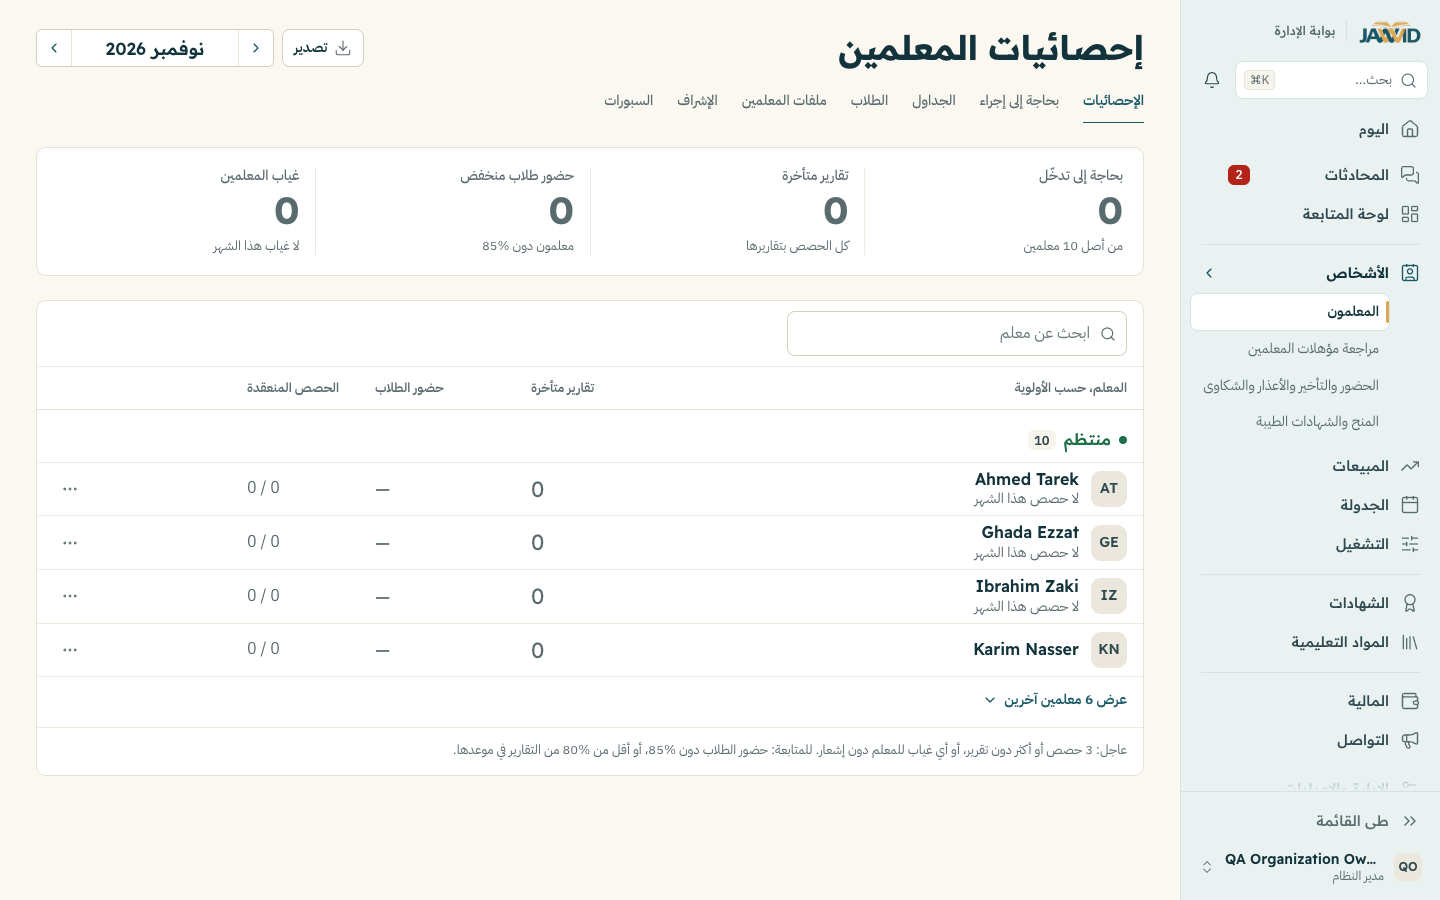
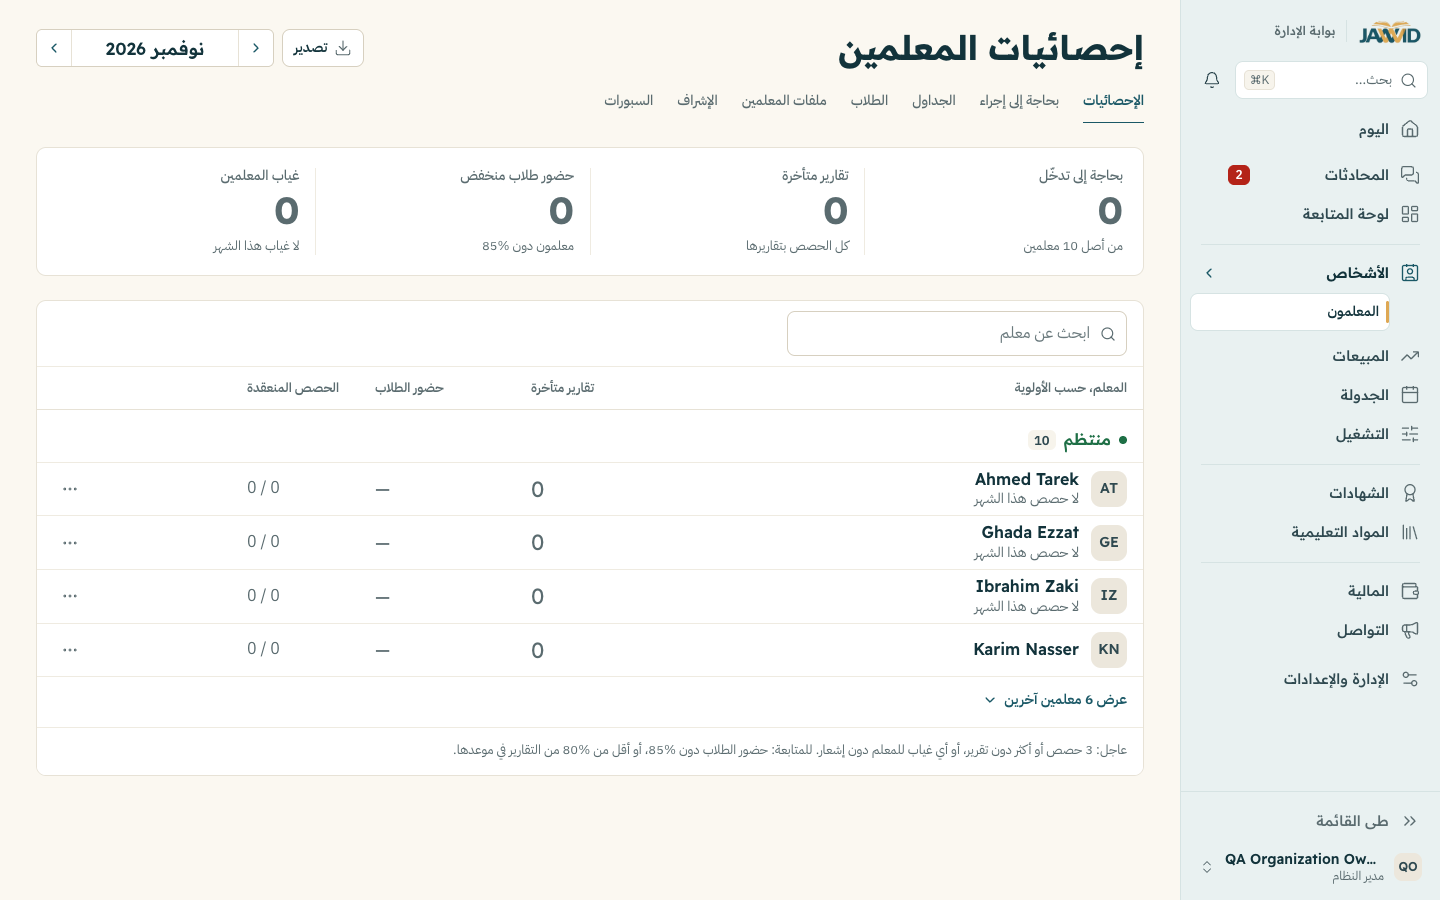
docs(design): rail critic round 3 and final both-state screenshots

Changed region(s): [[0.8438, 0.3733, 1.0, 0.6222], [0.9062, 0.7467, 1.0, 0.84], [0.9062, 0.6533, 1.0, 0.7156]]

diff --git a/docs/design/admin-decisions.md b/docs/design/admin-decisions.md
@@ -98,6 +98,18 @@ This replaces the earlier "labelled navigation" instruction.
   - The 1280px content cap. A folded rail at 1440 centres the content, so the side margin reads 50px instead of 36px. The content flows; it does not jump.
   - "Dashboard" under Dashboard. That place has two pages, Dashboard and Tasks.
 
+### Rail critic round 3 (2026-11-27)
+- **Verified.** All six round-2 fixes hold: places stay in view at 900px; Instalments and the ledger hold with the rail folded at 1024; all seven days show; queue names are cut at their end; long page names end in an ellipsis.
+- **Fixed in this round:**
+  - Row lists let a tag wrap inside its cell. Teacher files' status ran under "Open file" beside an open rail at 1024.
+  - In a narrow board, the week board ends the teacher's line in an ellipsis and steps day names down a size.
+  - The stacked ledger keeps one money edge.
+  - A leave reason in the other language lines up with its column.
+- **Kept as they are:**
+  - The chat tab row fades at its end and scrolls; that is its scroll cue.
+  - The closed day's narrow, quieter column. When today is the academy's closed day it stays quiet; the gold mark says "today".
+- **Logged for later:** the middle-dot plan labels on Instalments and receipts ("… · 2/4"). They come from the server's label; Today already re-renders them as words, and the other pages should share that helper.
+
 ## Lead decisions while integrating
 - Shared fixes the builders reported went into `system.css` (outline tags without dashes, table row headers, neutral dots visible on white, stacked-sheet spacing, Arabic count size, switch buttons, one-letter Arabic avatars, a neutral note under an urgent figure); the teachers stylesheet's global `.sheet + .sheet` rule moved into the system.
 - "Teacher profiles" in Arabic reads "مؤهلات المعلمين" (credentials review): it shared its name with Teacher files.

diff --git a/docs/design/admin-pages.md b/docs/design/admin-pages.md
@@ -273,4 +273,4 @@ Every page has now had at least three critic rounds.
   - The pages that broke at 1024 with the rail open, when a page gets about 764px: Instalments, Teacher statistics, the payments ledger, the chat reply queue, and Attendance.
   - The All conversations order picker on phones.
 - **What it still flags:** a supervisor's 404 on a student profile they may not open (a permission, in both states), and the payments row action that the stacked ledger hides on purpose (the row opens the payment).
-- **Critic rounds on the rail:** 2. Pairs per page type are `admin-screens/rail-<page>-folded.png` and `rail-<page>-open.png`, plus `rail-tooltip`, `rail-menu`, `rail-account`, `rail-keyboard-focus` and `rail-short-1366x768-open`. The gallery's `rail.html` pairs every page.
+- **Critic rounds on the rail:** 3. Pairs per page type are `admin-screens/rail-<page>-folded.png` and `rail-<page>-open.png`, plus `rail-tooltip`, `rail-menu`, `rail-account`, `rail-keyboard-focus` and `rail-short-1366x768-open`. The gallery's `rail.html` pairs every page.
